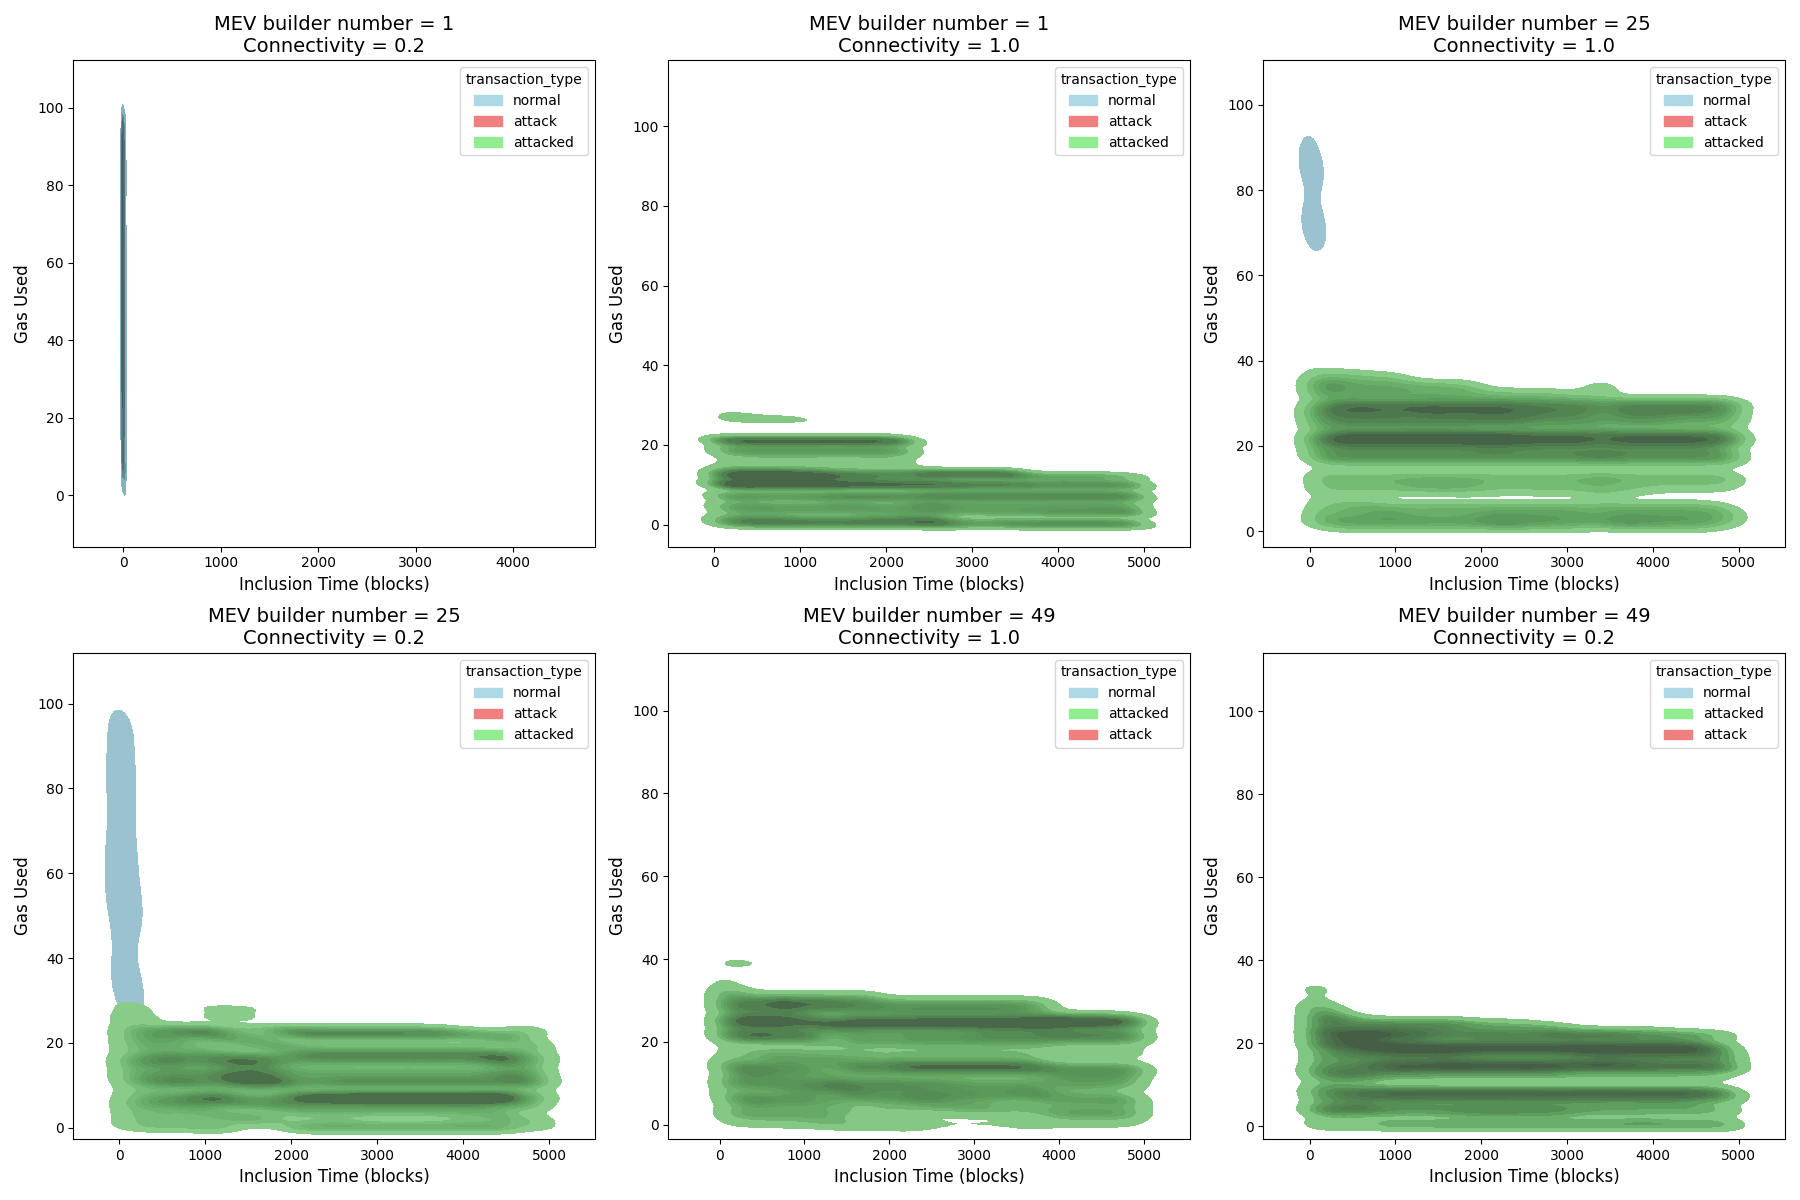
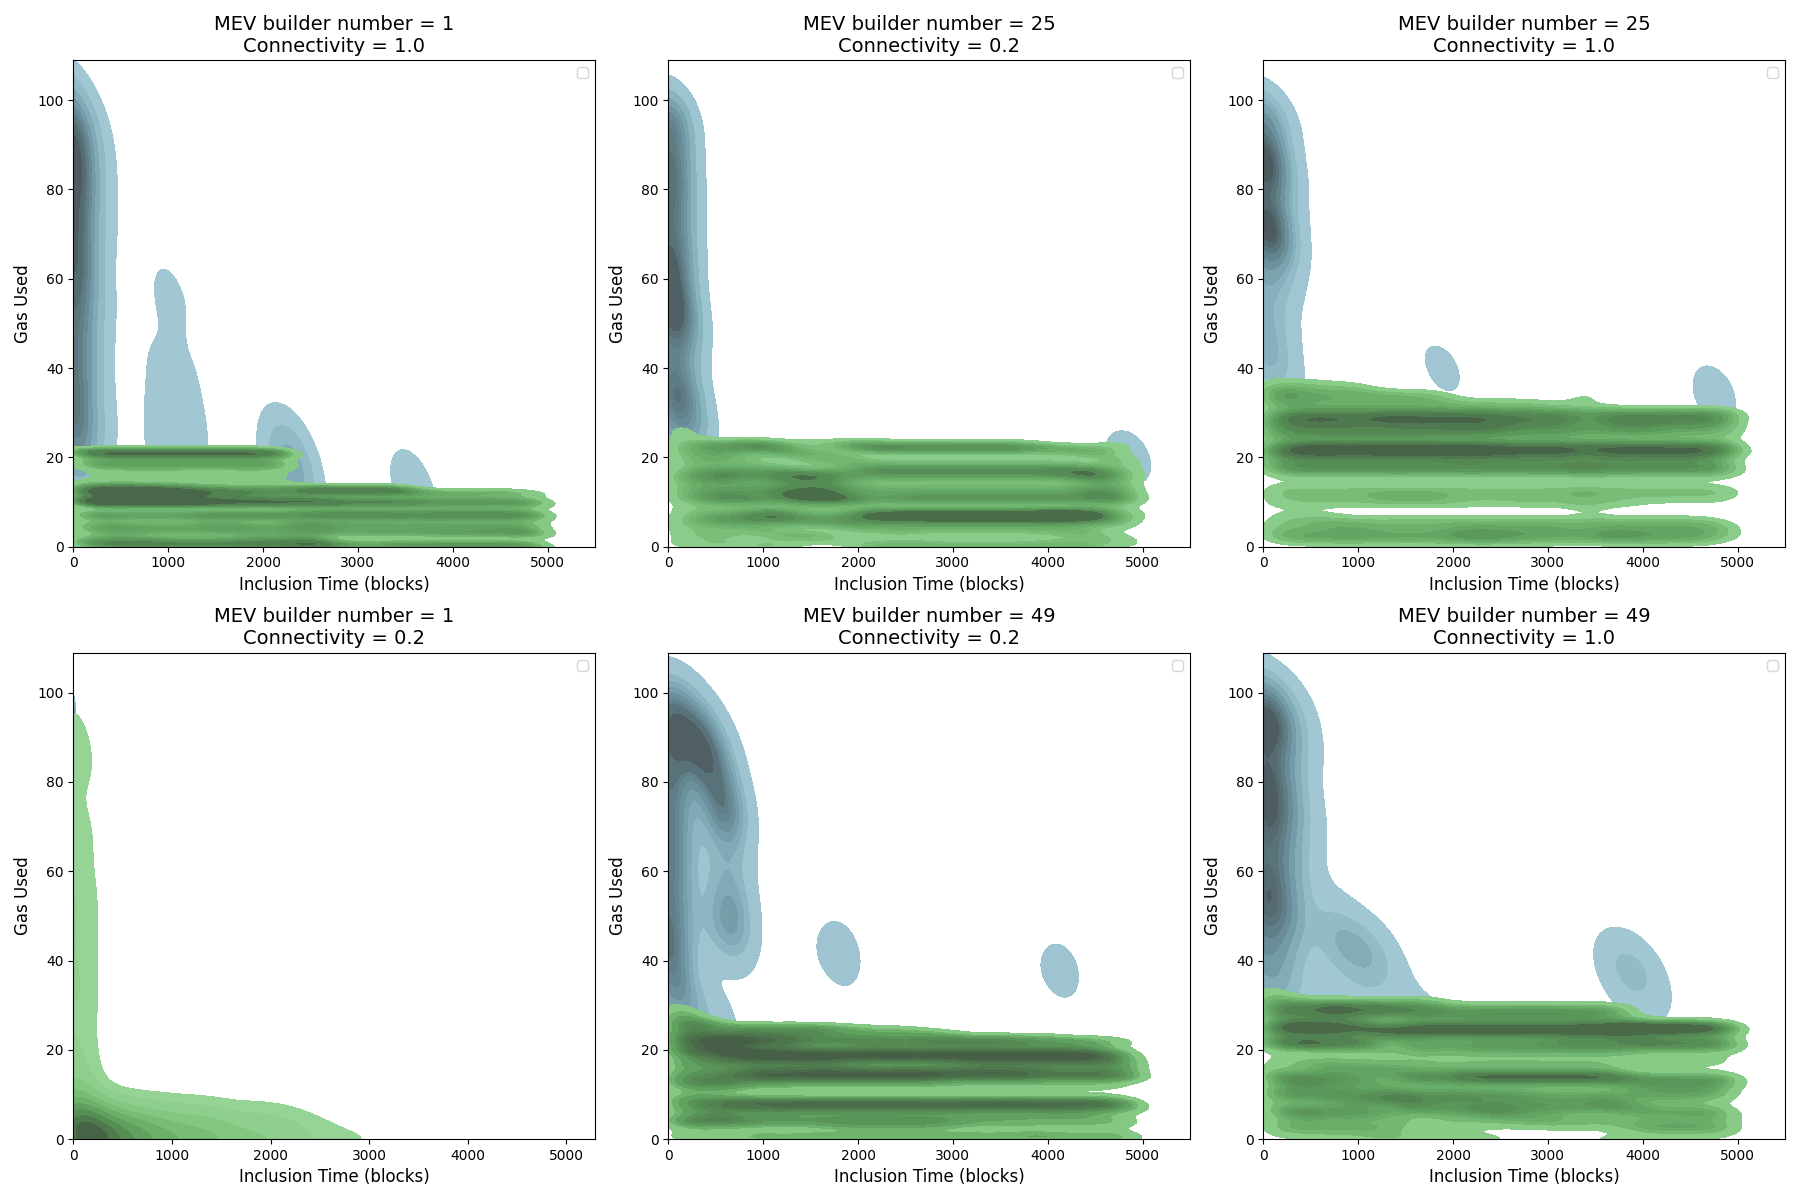
plots

diff --git a/plots/tx_plot.py b/plots/tx_plot.py
@@ -4,6 +4,10 @@ import matplotlib.pyplot as plt
 import seaborn as sns
 from concurrent.futures import ProcessPoolExecutor, as_completed
 
+# Define consistent palette and order
+palette = {'normal': 'lightblue', 'attacked': 'lightgreen'}
+order = ['normal', 'attacked']
+
 def load_csv(file_path):
     try:
         return pd.read_csv(file_path, usecols=lambda column: column.startswith('transaction_id') or column.startswith('gas') or column.startswith('mev') or column.startswith('block_created') or column == 'block_index' or column.startswith('transaction_type'))
@@ -37,7 +41,7 @@ def reshape_data(data, mev_builders, connectivity):
             subset['connectivity'] = connectivity
 
             subset['inclusion_time'] = subset['block_index'].astype(int) - subset['block_created'].astype(int)
-            subset = subset[subset['inclusion_time'] >= 0]
+            subset = subset[(subset['inclusion_time'] >= 0) & (subset['mev'] >= 0) & (subset['gas'] >= 0)]
             records.append(subset)
     
     if records:
@@ -48,14 +52,19 @@ def reshape_data(data, mev_builders, connectivity):
 def process_file(file_path):
     data = load_csv(file_path)
     if data.empty:
+        print(f"No data found in {file_path}")
         return pd.DataFrame()
     
     file_name = os.path.basename(file_path)
     mev_builders, connectivity = extract_params(file_name)
     if mev_builders is None or connectivity is None:
+        print(f"Could not extract parameters from {file_name}")
         return pd.DataFrame()
     
-    return reshape_data(data, mev_builders, connectivity)
+    reshaped_data = reshape_data(data, mev_builders, connectivity)
+    if reshaped_data.empty:
+        print(f"No valid transactions in {file_path}")
+    return reshaped_data
 
 def process_files_in_parallel(file_paths):
     data_dict = {}
@@ -68,6 +77,9 @@ def process_files_in_parallel(file_paths):
                 if not data.empty:
                     file_label = os.path.basename(file_path).replace(".csv", "")
                     data_dict[file_label] = data
+                    print(f"Processed {file_label} with {len(data)} records.")
+                else:
+                    print(f"No data after processing {file_path}")
             except Exception as e:
                 print(f"Error processing {file_path}: {e}")
     return data_dict
@@ -75,13 +87,15 @@ def process_files_in_parallel(file_paths):
 def plot_violin(data_dict, save_dir):
     plt.figure(figsize=(18, 12))
     for idx, (file_label, data) in enumerate(data_dict.items(), 1):
+        data = data[data['transaction_type'].isin(['normal', 'attacked'])]
         plt.subplot(2, 3, idx)
-        sns.violinplot(data=data, x='transaction_type', y='inclusion_time', inner="quart", palette='pastel')
+        sns.violinplot(data=data, x='transaction_type', y='inclusion_time', inner="quart", palette=palette, order=order)
         mev_builders = data['mev_builders'].iloc[0]
         connectivity = data['connectivity'].iloc[0]
         plt.title(f'MEV builder number = {mev_builders}\nConnectivity = {connectivity}', fontsize=14)
         plt.xlabel('Transaction Type', fontsize=12)
         plt.ylabel('Inclusion Time (blocks)', fontsize=12)
+        plt.ylim(0, data['inclusion_time'].max() * 1.1)
     
     plt.tight_layout()
     plt.savefig(os.path.join(save_dir, 'inclusion_time_violin.png'))
@@ -90,13 +104,18 @@ def plot_violin(data_dict, save_dir):
 def plot_kde_mev(data_dict, save_dir):
     plt.figure(figsize=(18, 12))
     for idx, (file_label, data) in enumerate(data_dict.items(), 1):
+        data = data[data['transaction_type'].isin(['normal', 'attacked'])]
         plt.subplot(2, 3, idx)
-        sns.kdeplot(data=data, x='inclusion_time', y='mev', hue='transaction_type', fill=True, palette={'normal': 'lightblue', 'attack': 'lightcoral', 'attacked': 'lightgreen'})
+        sns.kdeplot(data=data[data['transaction_type'] == 'normal'], x='inclusion_time', y='mev', fill=True, color='lightblue', label='normal')
+        sns.kdeplot(data=data[data['transaction_type'] == 'attacked'], x='inclusion_time', y='mev', fill=True, color='lightgreen', label='attacked')
         mev_builders = data['mev_builders'].iloc[0]
         connectivity = data['connectivity'].iloc[0]
         plt.title(f'MEV builder number = {mev_builders}\nConnectivity = {connectivity}', fontsize=14)
         plt.xlabel('Inclusion Time (blocks)', fontsize=12)
         plt.ylabel('MEV Extracted', fontsize=12)
+        plt.legend()
+        plt.xlim(0, data['inclusion_time'].max() * 1.1)
+        plt.ylim(0, data['mev'].max() * 1.1)
     
     plt.tight_layout()
     plt.savefig(os.path.join(save_dir, 'kde_mev.png'))
@@ -105,13 +124,18 @@ def plot_kde_mev(data_dict, save_dir):
 def plot_kde_gas(data_dict, save_dir):
     plt.figure(figsize=(18, 12))
     for idx, (file_label, data) in enumerate(data_dict.items(), 1):
+        data = data[data['transaction_type'].isin(['normal', 'attacked'])]
         plt.subplot(2, 3, idx)
-        sns.kdeplot(data=data, x='inclusion_time', y='gas', hue='transaction_type', fill=True, palette={'normal': 'lightblue', 'attack': 'lightcoral', 'attacked': 'lightgreen'})
+        sns.kdeplot(data=data[data['transaction_type'] == 'normal'], x='inclusion_time', y='gas', fill=True, color='lightblue', label='normal')
+        sns.kdeplot(data=data[data['transaction_type'] == 'attacked'], x='inclusion_time', y='gas', fill=True, color='lightgreen', label='attacked')
         mev_builders = data['mev_builders'].iloc[0]
         connectivity = data['connectivity'].iloc[0]
         plt.title(f'MEV builder number = {mev_builders}\nConnectivity = {connectivity}', fontsize=14)
         plt.xlabel('Inclusion Time (blocks)', fontsize=12)
         plt.ylabel('Gas Used', fontsize=12)
+        plt.legend()
+        plt.xlim(0, data['inclusion_time'].max() * 1.1)
+        plt.ylim(0, data['gas'].max() * 1.1)
     
     plt.tight_layout()
     plt.savefig(os.path.join(save_dir, 'kde_gas.png'))
@@ -132,7 +156,6 @@ def main():
         "mev_builders=49characteristic=0.2.csv",
         "mev_builders=49characteristic=1.csv"
     ]
-
 
     file_paths = [os.path.join(folder_path, rep_file) for rep_file in representative_files]
     data_dict = process_files_in_parallel(file_paths)

diff --git a/plots/congestion_tx.py b/plots/congestion_tx.py
@@ -141,6 +141,23 @@ def plot_kde_gas_congestion(data_dict, save_dir):
     plt.savefig(os.path.join(save_dir, 'kde_gas_congestion.png'))
     plt.close()
 
+def plot_box_inclusion_time(data_dict, save_dir):
+    plt.figure(figsize=(18, 12))
+    for idx, (file_label, data) in enumerate(data_dict.items(), 1):
+        data = data[data['transaction_type'].isin(['normal', 'attacked'])]
+        plt.subplot(2, 3, idx)
+        sns.boxplot(data=data, x='transaction_type', y='inclusion_time', palette=palette, order=order)
+        num_transactions = data['num_transactions'].iloc[0]
+        characteristic = data['characteristic'].iloc[0]
+        plt.title(f'Num transactions = {num_transactions}\nCharacteristic = {characteristic}', fontsize=14)
+        plt.xlabel('Transaction Type', fontsize=12)
+        plt.ylabel('Inclusion Time (blocks)', fontsize=12)
+        plt.ylim(0, data['inclusion_time'].max() * 1.1)
+    
+    plt.tight_layout()
+    plt.savefig(os.path.join(save_dir, 'box_inclusion_time.png'))
+    plt.close()
+
 def main():
     folder_path = "/Users/Tammy/Downloads/pbs_vary_num_transactions"
     save_dir = "./figures"
@@ -158,9 +175,10 @@ def main():
     data_dict = process_files_in_parallel(file_paths)
 
     if data_dict:
-        plot_violin_congestion(data_dict, save_dir)
-        plot_kde_mev_congestion(data_dict, save_dir)
-        plot_kde_gas_congestion(data_dict, save_dir)
+        # plot_violin_congestion(data_dict, save_dir)
+        # plot_kde_mev_congestion(data_dict, save_dir)
+        # plot_kde_gas_congestion(data_dict, save_dir)
+        plot_box_inclusion_time(data_dict, save_dir)
 
 if __name__ == '__main__':
     main()
